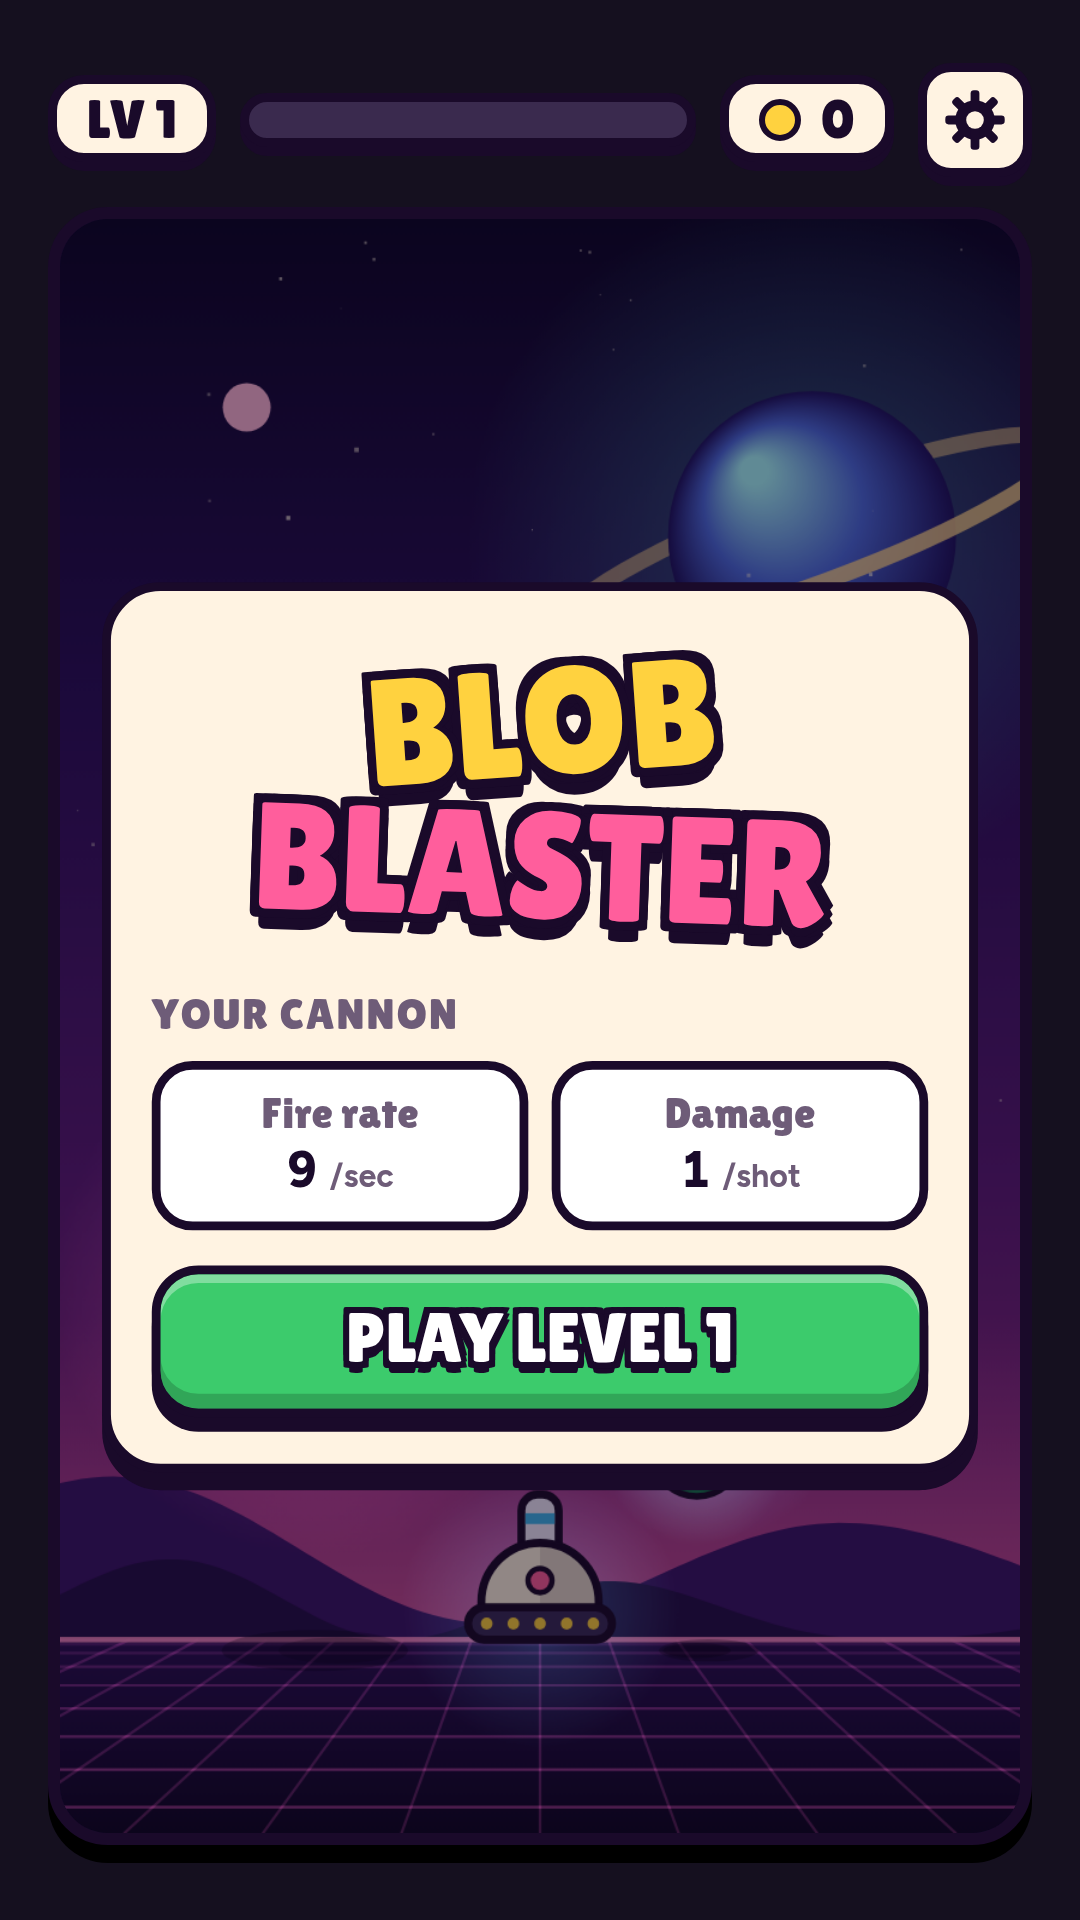
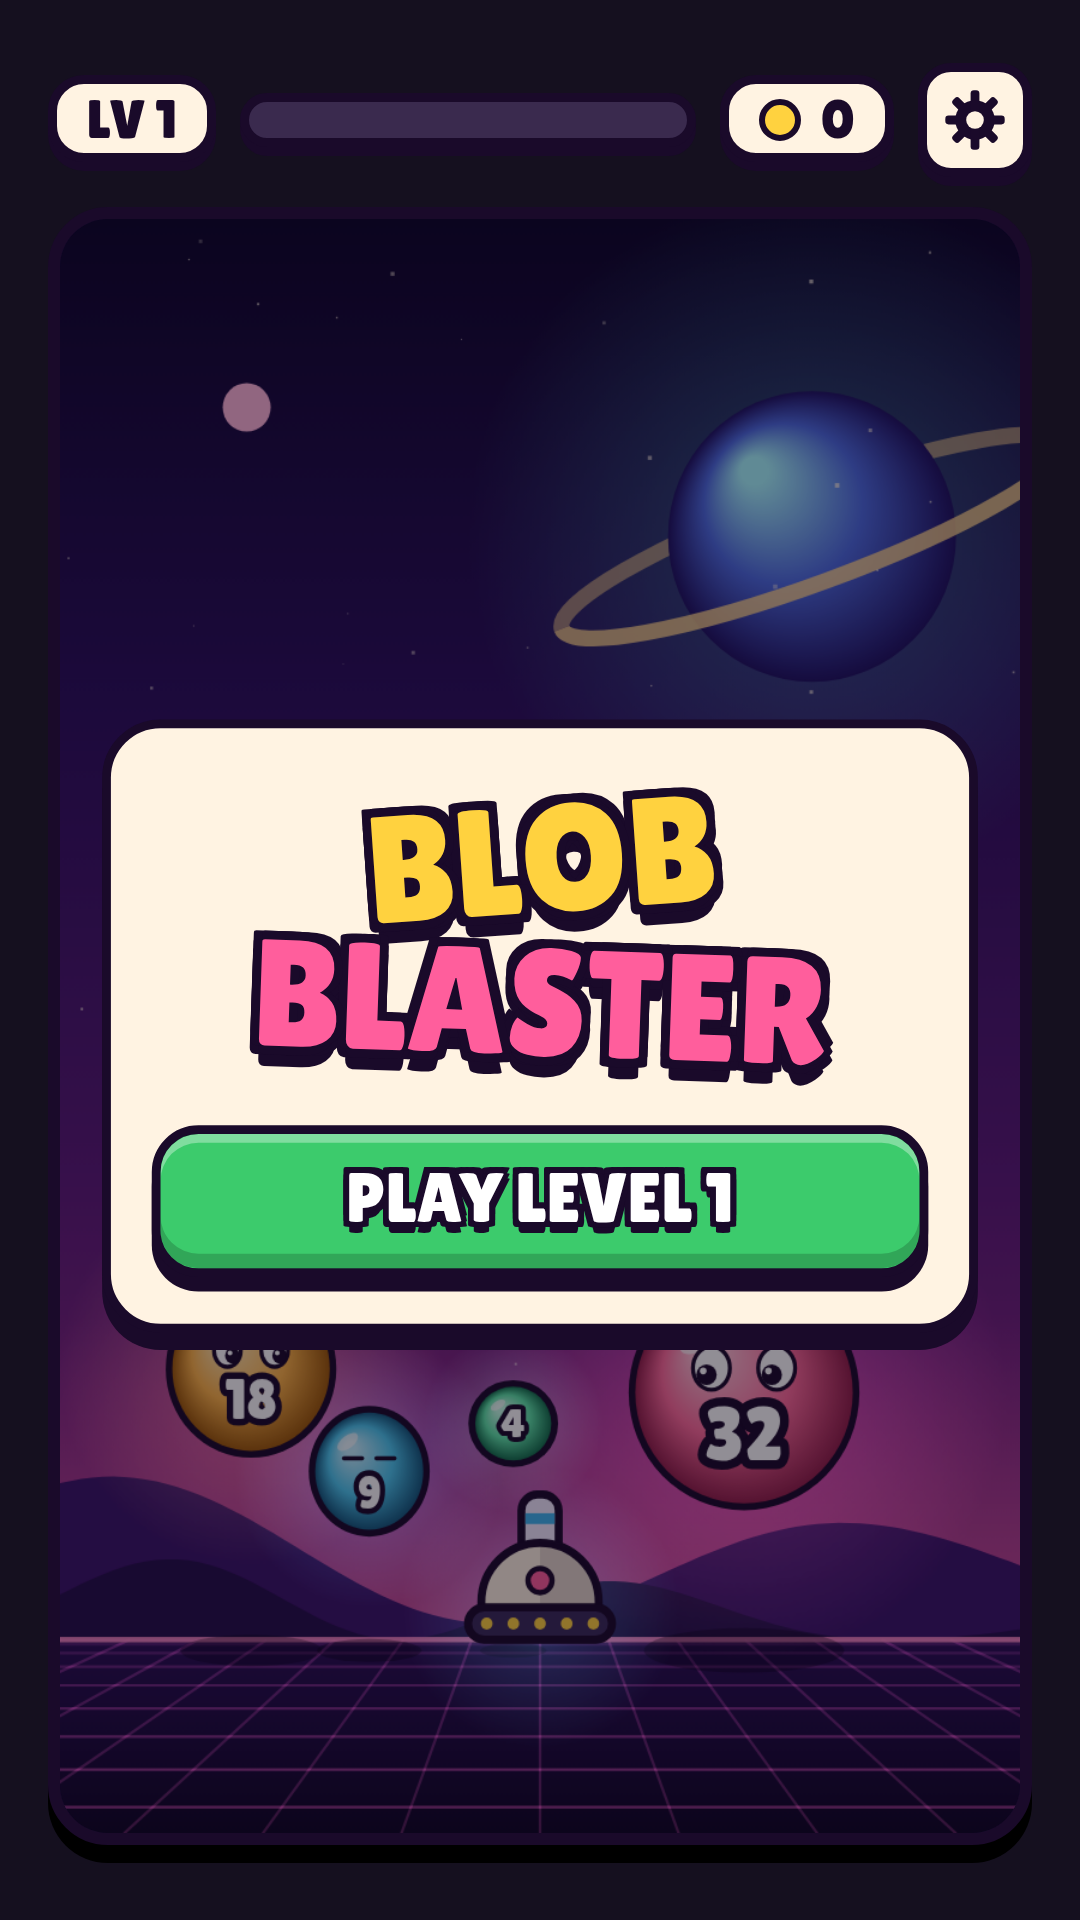
Fixed cannon on every level; difficulty rises with level instead
- Cannon is always 9 shots/s, 1 damage; no power-up UI
- Level difficulty driven by total blob HP target (hpTarget): bot wins ~100% L1-3, ~80% L10, ~40% L20, ~7% L30
- Update tests, docs and store screenshots

Claude-Session: https://claude.ai/code/session_0154TmQgaf8AbJPyRXThWofs

Changed region(s): [[0.0917, 0.2812, 0.9167, 0.8125]]

diff --git a/www/index.html b/www/index.html
@@ -79,15 +79,6 @@ body{font:14px/1.3 var(--body);padding-block:calc(10px + var(--sat)) calc(14px +
 .btn.blue{background:var(--blue)} .btn.red{background:var(--red)} .btn.small{font-size:17px;padding:5px 12px 7px;border-radius:12px}
 .btnrow{display:grid;grid-template-columns:1fr 1fr;gap:8px}
 
-/* Cannon stats (they grow by themselves with the level, so this is display only) */
-.power{display:grid;grid-template-columns:1fr 1fr;gap:8px}
-.pw{background:#fff;border:3px solid var(--ink);border-radius:14px;padding:6px 6px 8px;color:var(--ink);display:grid;gap:1px;justify-items:center;min-width:0}
-.pw .t{font:400 15px var(--display);color:var(--muted)}
-.pw .v{font:800 17px var(--body);font-variant-numeric:tabular-nums;white-space:nowrap}
-.pw .v small{font:700 11px var(--body);color:var(--muted)}
-.pw .v s{text-decoration:none;color:var(--muted);font-weight:700}
-.pw .v em{font-style:normal;color:#14803B}
-.pw.up{background:#DFF8E6;box-shadow:0 3px 0 var(--ink)}
 .tip{margin:0;font:600 13px/1.35 var(--body);color:var(--muted)}
 
 /* Settings: the list scrolls, the button row stays pinned at the bottom so DONE / RESUME is always visible */
@@ -155,17 +146,10 @@ try{const s=JSON.parse(localStorage.getItem(KEY)||'null');if(s&&typeof s.level==
 delete S.rate;delete S.dmg;                       // older builds stored manual upgrades here
 S.set=Object.assign({sfx:true,vib:true,shake:true,bg:'random'},S.set||{});
 const save=()=>{try{localStorage.setItem(KEY,JSON.stringify(S))}catch(e){}};
-/* The cannon grows with the level, nothing to buy.
-   Fire rate: 9/s at level 1, +1 every 3 levels, capped at 16/s from level 22.
-   Damage: sized so a level's blobs take about 9 seconds of non-stop hits (levelHP / (fire rate x 9)).
-   It never goes down. Roughly: level 1-2 = 1, 3-4 = 2, 5-6 = 4, 10 = 7, 20 = 10, 30 = 14, 50 = 22.
-   A bot with a 0.15s reaction time clears levels 1-50 about 70-100% of the time with this curve. */
-const fireRate=l=>Math.min(16,9+Math.floor((l-1)/3));
-const DMG_SECONDS=9,_dmg=[0,1];
-function damage(l){
-  while(_dmg.length<=l){const n=_dmg.length;_dmg.push(Math.max(_dmg[n-1],Math.ceil(levelHP(n)/(fireRate(n)*DMG_SECONDS))));}
-  return _dmg[Math.max(1,l)];
-}
+/* The cannon never changes: same fire rate and damage on every level. Levels get harder because the blobs do
+   (more of them, bigger, more HP) -- see levelShape(). The functions keep a level argument so tools can call them. */
+const FIRE_RATE=9,DAMAGE=1;
+const fireRate=l=>FIRE_RATE, damage=l=>DAMAGE;
 
 /* ---------- audio ---------- */
 let ac=null,noiseBuf=null,lastPew=0;
@@ -186,7 +170,6 @@ const sfx={
   hurt(){osc('sawtooth',260,90,.3,.12);noise(.2,.2,600)},
   boom(){noise(.7,.4,700);osc('sawtooth',300,40,.8,.15)},
   win(){[523,659,784,1046,1318].forEach((f,i)=>osc('triangle',f,f,.28,.12,i*.08))},
-  up(){osc('triangle',660,990,.12,.12);osc('triangle',990,1480,.14,.1,.1)},
   click(){osc('triangle',520,700,.06,.08)}
 };
 const buzz=ms=>{if(!S.set.vib)return;try{navigator.vibrate&&navigator.vibrate(ms)}catch(e){}};
@@ -311,22 +294,32 @@ function tot(h,s){return h+(s>0?2*tot(Math.ceil(h/2),s-1):0)}
 /* Level recipe: how many blobs, the biggest size, and the HP scale. The first blob is always the biggest size,
    each later one is the biggest size or one step smaller (50/50). */
 const SIZE_HP=[.4,.6,.8,1];
-function levelShape(L){return {count:Math.min(6,1+Math.ceil(L/2)),maxS:Math.min(3,Math.ceil(L/2)),base:5+L*3}}
+/* Difficulty. The cannon never gets stronger, so a level gets harder by having more blob HP to chew through:
+   the longer it takes, the longer you have to dodge. hpTarget(L) is the total HP (splits included) we aim for;
+   count / biggest size grow with the level and the per-blob HP is chosen to land on that target. */
+const hpTarget=L=>L<=8?10+8*L:74+7*(L-8);
+function levelShape(L){
+  const count=Math.min(6,1+Math.ceil(L/2)),maxS=Math.min(3,Math.ceil(L/2));
+  if(!_base[L]){let b=2;while(shapeHP(count,maxS,b)<hpTarget(L))b++;_base[L]=b;}
+  return {count,maxS,base:_base[L]};
+}
+const _base=[];
 const blobHP=(base,s)=>Math.max(1,Math.round(base*SIZE_HP[s]));
 function makeQueue(L){
   const {count,maxS,base}=levelShape(L),q=[];
   for(let i=0;i<count;i++){const s=i===0?maxS:Math.max(0,maxS-(Math.random()<.5?1:0));q.push({s,hp:blobHP(base,s)});}
   return q;
 }
-/* Average total HP of a level (all the splits included). The cannon's damage is derived from this. */
-function levelHP(L){
-  const {count,maxS,base}=levelShape(L);let sum=0;
+/* Average total HP of a level (all the splits included) for a given shape. */
+function shapeHP(count,maxS,base){
+  let sum=0;
   for(let i=0;i<count;i++){
     const opts=i===0?[[maxS,1]]:[[maxS,.5],[Math.max(0,maxS-1),.5]];
     for(const [s,p] of opts)sum+=p*tot(blobHP(base,s),s);
   }
   return sum;
 }
+const levelHP=L=>{const {count,maxS,base}=levelShape(L);return shapeHP(count,maxS,base)};
 function newBlob(s,hp,x,y,vx,vy){return {s,hp,max:hp,r:RAD[s],x,y,vx,vy,sq:0,pu:0,fl:0,ph:Math.random()*10}}
 function startLevel(){
   initAudio();pickTheme();
@@ -578,25 +571,18 @@ function hud(){
 }
 const STAR=on=>`<svg viewBox="0 0 24 24" aria-hidden="true"><polygon points="12,1.8 15.1,8.6 22.4,9.3 16.9,14.2 18.5,21.5 12,17.7 5.5,21.5 7.1,14.2 1.6,9.3 8.9,8.6"
   fill="${on?'#FFD23F':'#D8CBB6'}" stroke="#1A0A2A" stroke-width="2" stroke-linejoin="round"/>${on?'<ellipse cx="9.5" cy="9" rx="2" ry="1.2" fill="#fff" opacity=".7" transform="rotate(-30 9.5 9)"/>':''}</svg>`;
-/* Cannon stats for a level `from`, and what they become at level `to`. Changed values are highlighted. */
-function powerHTML(from,to){
-  const box=(t,a,b,unit)=>`<div class="pw${a!==b?' up':''}"><span class="t">${t}</span><span class="v">${a!==b?`<s>${a}</s> → <em>${b}</em>`:a} <small>${unit}</small></span></div>`;
-  return `<div class="power">${box('Fire rate',fireRate(from),fireRate(to),'/sec')}${box('Damage',damage(from),damage(to),'/shot')}</div>`;
-}
-const poweredUp=(from,to)=>fireRate(from)!==fireRate(to)||damage(from)!==damage(to);
 const TIPS=['Stay under the blob you are shooting. Slide away when it lands.','Big blobs bounce high. Watch the shadow on the floor.','Pop blobs back to back to build a combo and earn bonus coins.','Your hearts refill at the start of every level.'];
 let ovKind='menu',settingsBack=null,confirmReset=false;
 function showOverlay(kind){
   const again=!ov.hidden&&ovKind===kind,keepScroll=again&&document.querySelector('.scroller')?document.querySelector('.scroller').scrollTop:0;
   ovKind=kind;let h='';
   if(kind==='menu')h=`<div class="logo"><span>BLOB</span><span>BLASTER</span></div>
-    ${S.best>1?`<div class="sub">Best: Level ${S.best}</div>`:''}<div class="lbl">YOUR CANNON</div>${powerHTML(S.level,S.level)}<button class="btn ol" id="go">PLAY LEVEL ${S.level}</button>`;
-  if(kind==='clear'){const up=poweredUp(S.level-1,S.level);
+    ${S.best>1?`<div class="sub">Best: Level ${S.best}</div>`:''}<button class="btn ol" id="go">PLAY LEVEL ${S.level}</button>`;
+  if(kind==='clear'){
     h=`<div class="ribbon ol" style="--rib:#3CCB6C">LEVEL ${S.level-1}</div>
     <div class="stars">${[1,2,3].map(i=>STAR(i<=starsWon)).join('')}</div>
     <div class="reward"><span class="coin-ic"></span>+${earned}</div>
-    <div class="lbl">${up?'CANNON POWER UP!':'YOUR CANNON'}</div>${powerHTML(S.level-1,S.level)}<button class="btn ol" id="go">NEXT</button>`;
-    if(up)setTimeout(()=>{if(ovKind==='clear')sfx.up()},450);}
+    <div class="sub">Next: Level ${S.level}, tougher blobs!</div><button class="btn ol" id="go">NEXT</button>`;}
   if(kind==='over')h=`<div class="ribbon ol" style="--rib:#FF4D4D">OUT OF HEARTS</div>
     <div class="sub">${Math.floor(dealt/total*100)}% cleared</div><p class="tip">${TIPS[Math.floor(Math.random()*TIPS.length)]}</p><button class="btn ol" id="go">RETRY</button>`;
   if(kind==='settings'){

diff --git a/PLAY_STORE.md b/PLAY_STORE.md
@@ -50,7 +50,7 @@ Policy URL will be `https://boidbit.github.io/bob-blaster/privacy.html` (edit th
    - Full description:
      > Blob Blaster is a fast, colourful arcade shooter. Slide to move your cannon, hold fire and pop the bouncing number blobs before they land on you. Big blobs split into smaller ones, combos stack up, and every level throws something new at you.
      >
-     > • One-thumb controls · • Your cannon gets stronger automatically as you reach higher levels · • Six different backgrounds, or let the game shuffle them · • Sound, vibration and background settings · • No ads, no sign-up, works offline
+     > • One-thumb controls · • Levels get tougher and tougher: more and bigger blobs · • Six different backgrounds, or let the game shuffle them · • Sound, vibration and background settings · • No ads, no sign-up, works offline
 5. **Release**:
    - **Personal developer accounts created after Nov 2023 must run a closed test with at least 12 testers opted in for 14 continuous days** before you can apply for production. Plan this first: Testing → Closed testing → create track → upload the AAB → add testers (Google Group or email list) → ask them to opt in and keep the app installed for 14 days.
    - Then Dashboard → "Apply for production" → answer the questions → create the production release.

diff --git a/README.md b/README.md
@@ -2,7 +2,7 @@
 
 Arcade shooter: slide the cannon, pop the bouncing number blobs. Single-file HTML5 canvas game (`www/index.html`) wrapped for Android with [Capacitor](https://capacitorjs.com).
 
-The cannon's **fire rate and damage rise automatically with the level** — there's no shop. Formulas are in the game file (`fireRate`, `damage`); `tools/balance-sim.mjs` plays it with a bot to check difficulty stays winnable.
+The cannon is **the same on every level** (9 shots/sec, 1 damage) and there is no shop. Levels get harder because the blobs do: more of them, bigger, with more total HP (`hpTarget` / `levelShape` in the game file). `tools/balance-sim.mjs` plays levels with a bot; roughly it wins ~100% of levels 1-3, ~80% around level 10, ~40% at level 20 and almost never past level 35.
 
 ## Develop
 ```bash
